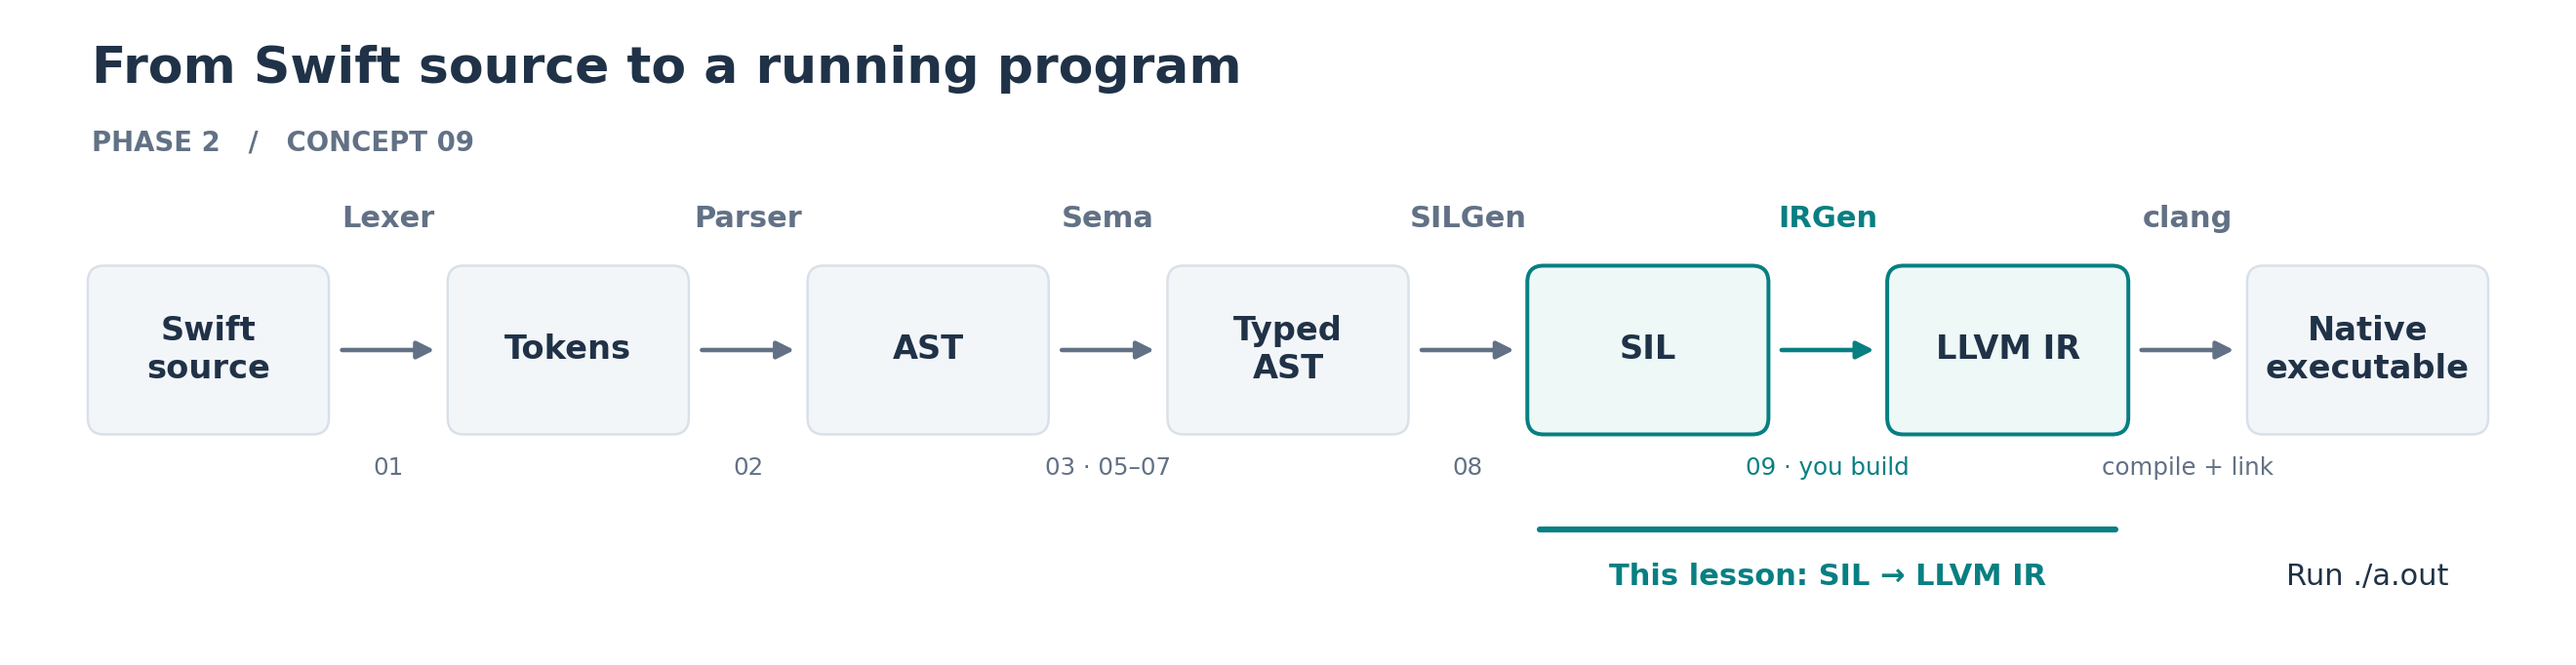
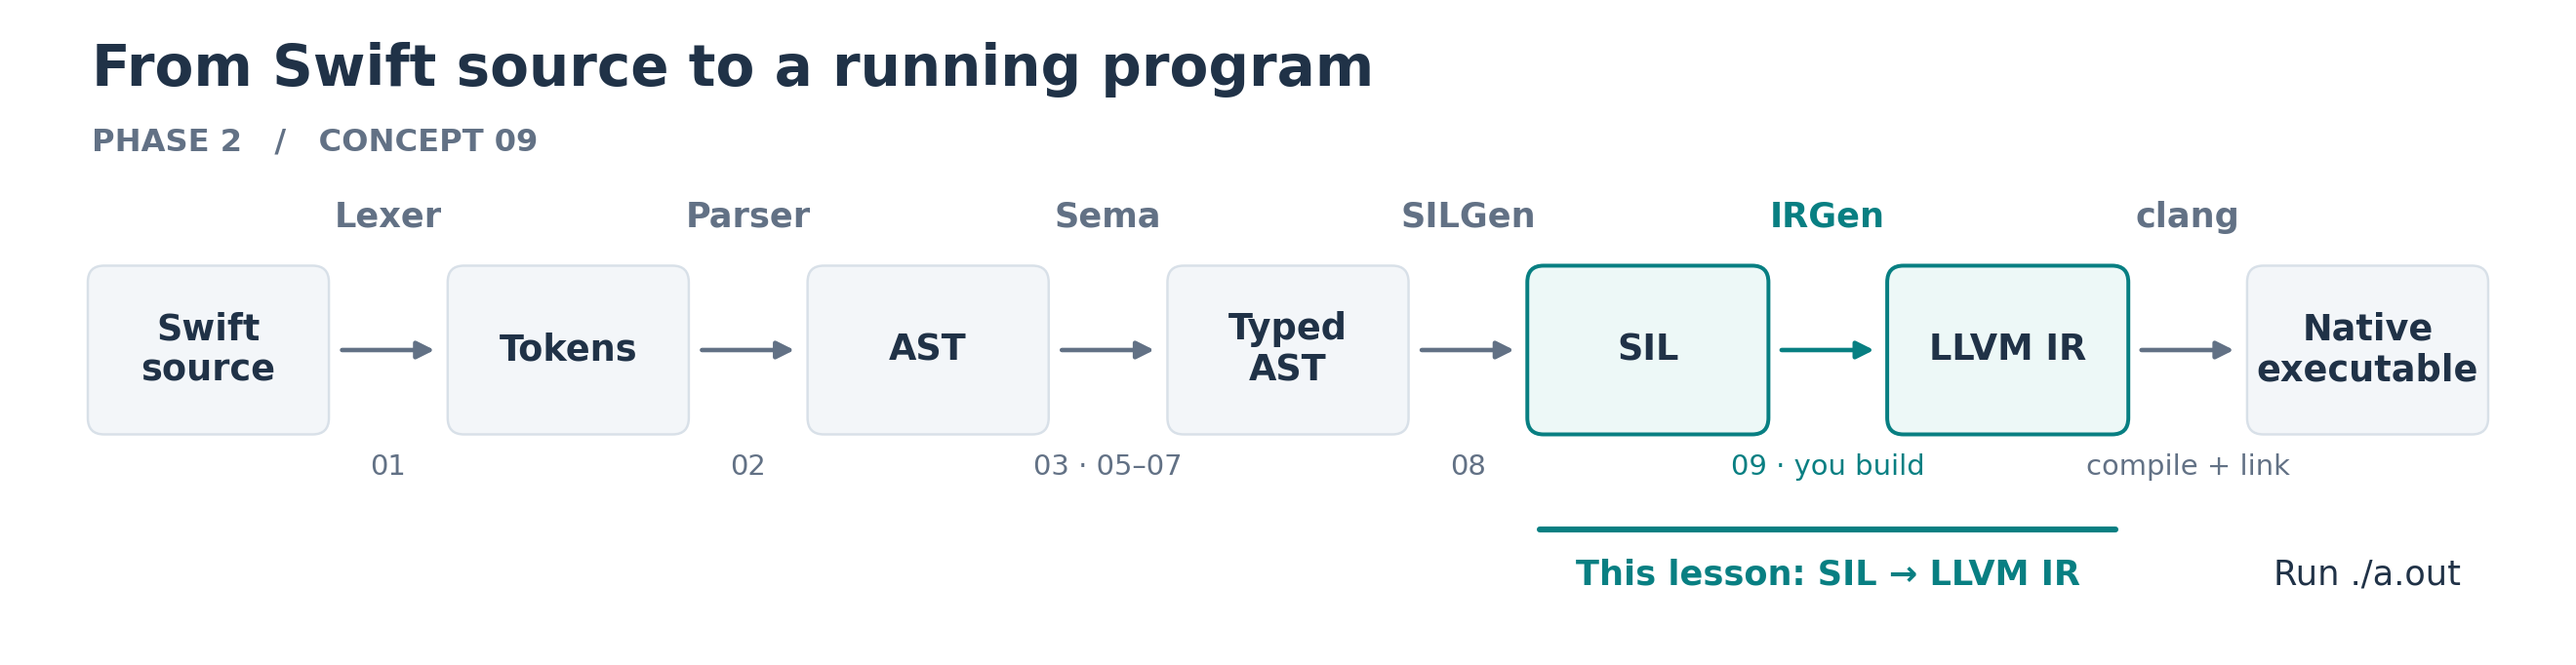
docs(09): enlarge pipeline figure labels

diff --git a/course/phase2-types-flow/09-sil-to-llvm/figs/make_figs.py b/course/phase2-types-flow/09-sil-to-llvm/figs/make_figs.py
@@ -22,9 +22,9 @@ def make_pipeline():
     ax.axis("off")
 
     ax.text(-0.65, 1.98, "From Swift source to a running program",
-            fontsize=17, weight="bold", color=INK, va="center")
+            fontsize=19, weight="bold", color=INK, va="center")
     ax.text(-0.65, 1.58, "PHASE 2   /   CONCEPT 09",
-            fontsize=9, weight="bold", color=MUTED, va="center")
+            fontsize=10.5, weight="bold", color=MUTED, va="center")
 
     # Artifacts sit on the path; each labelled arrow is a compiler stage.
     artifacts = ["Swift\nsource", "Tokens", "AST", "Typed\nAST", "SIL", "LLVM IR", "Native\nexecutable"]
@@ -41,7 +41,7 @@ def make_pipeline():
             linewidth=1.3 if highlighted else 0.8,
             edgecolor=TEAL if highlighted else "#d8e0e8",
             facecolor="#edf8f7" if highlighted else "#f3f6f9"))
-        ax.text(x, y, label, ha="center", va="center", fontsize=11,
+        ax.text(x, y, label, ha="center", va="center", fontsize=12,
                 color=INK, weight="bold")
 
     for i, (name, concept) in enumerate(stages):
@@ -51,15 +51,15 @@ def make_pipeline():
             (2 * i + width / 2 + 0.06, y),
             (2 * (i + 1) - width / 2 - 0.06, y),
             arrowstyle="-|>", mutation_scale=12, linewidth=1.5, color=color))
-        ax.text(x, 1.12, name, ha="center", fontsize=10,
+        ax.text(x, 1.12, name, ha="center", fontsize=11.5,
                 weight="bold", color=color)
-        ax.text(x, -0.23, concept, ha="center", fontsize=8, color=color)
+        ax.text(x, -0.23, concept, ha="center", fontsize=9.5, color=color)
 
     ax.plot([7.4, 10.6], [-0.53, -0.53], color=TEAL, linewidth=2,
             solid_capstyle="round")
     ax.text(9, -0.83, "This lesson: SIL → LLVM IR", ha="center",
-            fontsize=10, weight="bold", color=TEAL)
-    ax.text(12, -0.83, "Run ./a.out", ha="center", fontsize=10, color=INK)
+            fontsize=11.5, weight="bold", color=TEAL)
+    ax.text(12, -0.83, "Run ./a.out", ha="center", fontsize=11.5, color=INK)
 
     fig.subplots_adjust(left=0.025, right=0.975, top=0.97, bottom=0.06)
     out = HERE / "pipeline.png"
